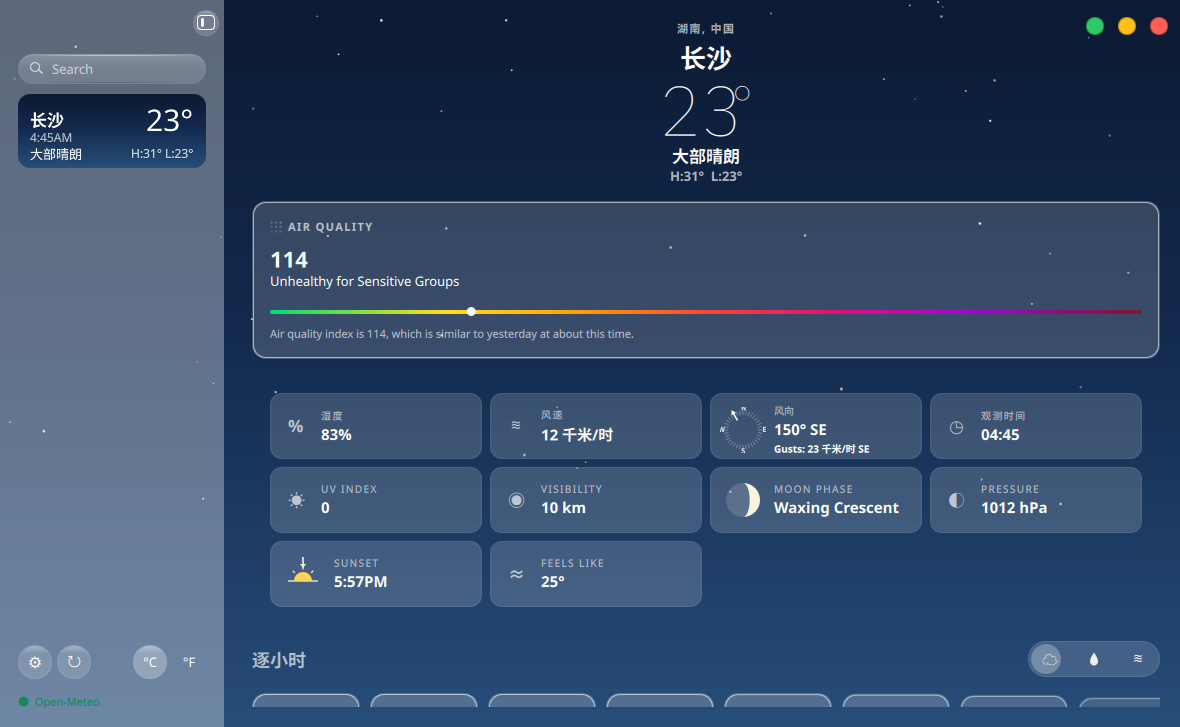
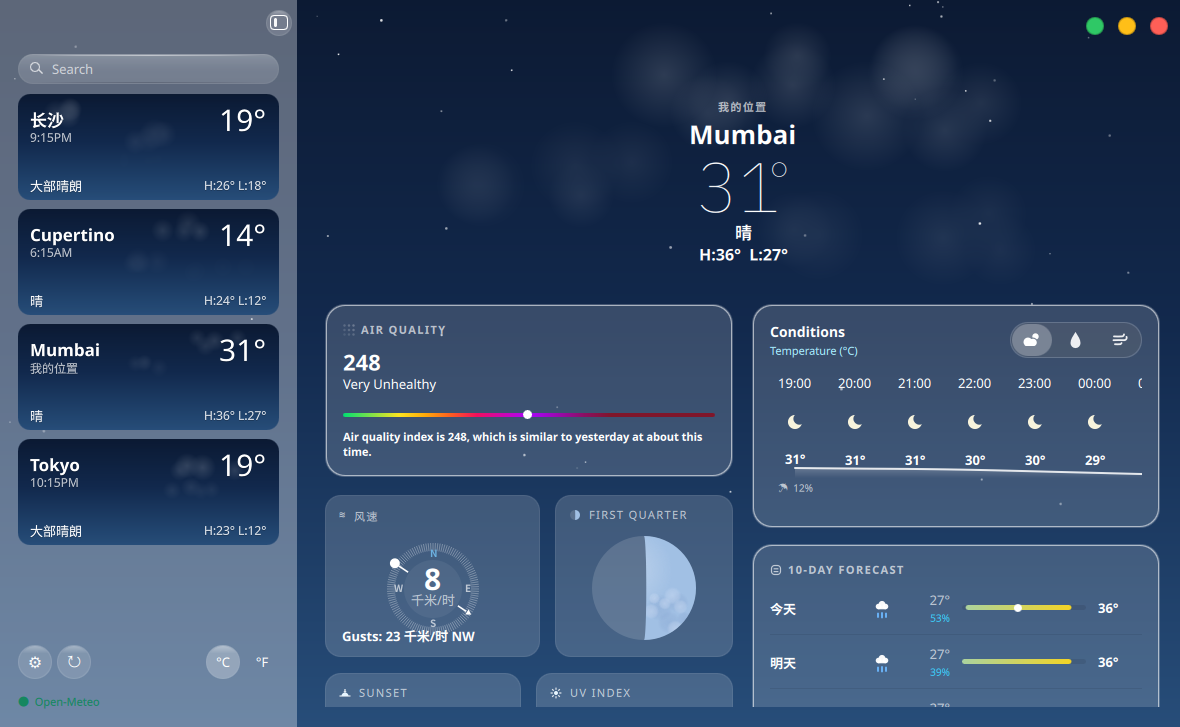
docs: round 67 进度与截图

diff --git a/docs/ui-weather/LEDGER.md b/docs/ui-weather/LEDGER.md
@@ -397,7 +397,7 @@
 - `shared/qml/foundation/KosApplicationWindow.qml:20`：按用户裁定，`windowCornerRadius` 32→8。注意这是共享组件，其他 modernDesign 应用窗口圆角同步变为 8px。
 
 ## 仍差（按视觉冲击排序）
-0f. **侧栏卡圆角仍是 ÷2.1 旧口径的 12**（本轮卡高/缝同族残差，下一轮首选）：tile 实测角曲线跨度 ~22px@tile，÷2.1 → 12（Main.qml:1149 radius: 12）；按侧栏 297 校准后的正确换算 22 × (1180/1628≈0.725) ≈ **15-16**。与卡高残差同根（tile-sidebar 系数误用），本轮时间闸未做。
+0f. ~~**侧栏卡圆角仍是 ÷2.1 旧口径的 12，应改 15-16**~~（**已收口（2026-10-18 勘误轮，净零数值改动）——前提被主参考直测推翻，radius 12 不改**：ref-main 卡 3（顶 y=243、左缘 x=10）干净角剖面实测 x=11→247 / 12→245 / 14→244 / 15→243 归平，圆拟合 r≈7-8@814（r=7: dx=2 残差 0.1；r=8: dx=1/4 残差 0.1/0.07）×1.4503 ≈ **10-12@1180，当前 12 在误差带内**；改 16 反而会错。旧记载'22px@tile'本轮 tile 复测水平跨度仅 ~17-18px，且 tile-sidebar 系 iPad 源（440 宽，卡宽 392 比例 0.043 与 ref-main 0.040 同族），'÷2.1→改 ÷(1180/1628)'的换算链两端系数皆不成立。**防再犯**：Main.qml:1150 上方已加勘误注释；本轮截图 tmp/shots/patrol-1792331461.png（过体检闸 ✅ 1180×727，全套 dev env + KOS_SCREENSHOT_DELAY_MS=2500，本轮二进制）我方角剖面实测：卡 2 顶 209、x=25 处 top≈209.7（r=12 理论 210.6 / r=16 理论 212.5，排除 16）。测试 Qt 6/6 绿、go test ok。无动效改动，无帧差义务。**新候选注记（未立轮）**：ref 卡右缘在卡内亮云纹理下测不准（199-204 的 148→154 系卡内云，205-206 暗带无法归因卡缘/栏缘），卡左右内缩对称性未校准，未来轮可用搜索胶囊缘做标尺复核。
 0d. ~~**侧栏选中卡副行：参考首卡（选中=My Location 城）副行是 "My Location"，我方首卡仍显示当地时间**~~（**已做**，见已改"侧栏选中卡副行 My Location"——选中卡显示"我的位置"，未选卡维持当地时间，截图 1792322080 实测逐项一致）。
 6. ~~侧栏只有 1 个城市时卡下方大片空白（参考有多城填满）；无数据可解，仅记录~~（**多城已实拍验证收口数据侧**，2026-10-18 多城轮：dev state 加 Cupertino/Mumbai/Tokyo 三城 + 强制刷新取到 summary，截图 1792321838 实拍 4 城卡正确渲染——各城当地时区时间（4:00AM/4:30PM/8:00PM）、温度、H·L、Mumbai 昼卡云纹理、选中卡在顶，均正确；卡区 y95-410 填满后下方空白随城数收缩，系数据量问题非 bug。生产单城空白维持"仅记录"）。**巡检 1792326653 另证（防未来轮重复排查）**：dev state 现仅剩长沙且其 summary 缺失，侧栏选中卡温度显示 "—"、月相卡空圆、UV 卡 "—" 均系 dev 快照缺字段/陈旧（数据侧空态），非渲染缺陷，勿立轮。**勘误（2026-10-18 巡检轮推翻）**："dev state 退化"系误诊——该轮截图漏带 dev env（`KOS_DATA_SOCKET=/tmp/kos-weather-dev.sock` + `XDG_STATE_HOME=/tmp/kos-weather-test-state`），连到了**系统**快照（`~/.local/state`，单长沙无新字段）；dev state 实际健康（4 城 + moonPhase/uvIndex 全在，fetchedAt 新鲜）。**以后截图一律带全套 dev env**（见已改首条实测注），否则数据残缺会误判为渲染缺陷。
 0e. ~~**内容区顶部节奏整体偏紧**~~（**已做**，见已改"0e 双 knob"——hero 顶改比例式 `14.9%×flick高−24`，实测 label ink 顶 y104=14.3% vs 目标 ~108px（残差 ~4px 系 flick 高/整窗口径差，不再调）；H·L ink 底→AQ 卡顶 **46px** vs 目标 44 ✓。compact 窄窗下比例式会自动缩小 topMargin，形态待未来窄窗轮顺带复测）。
